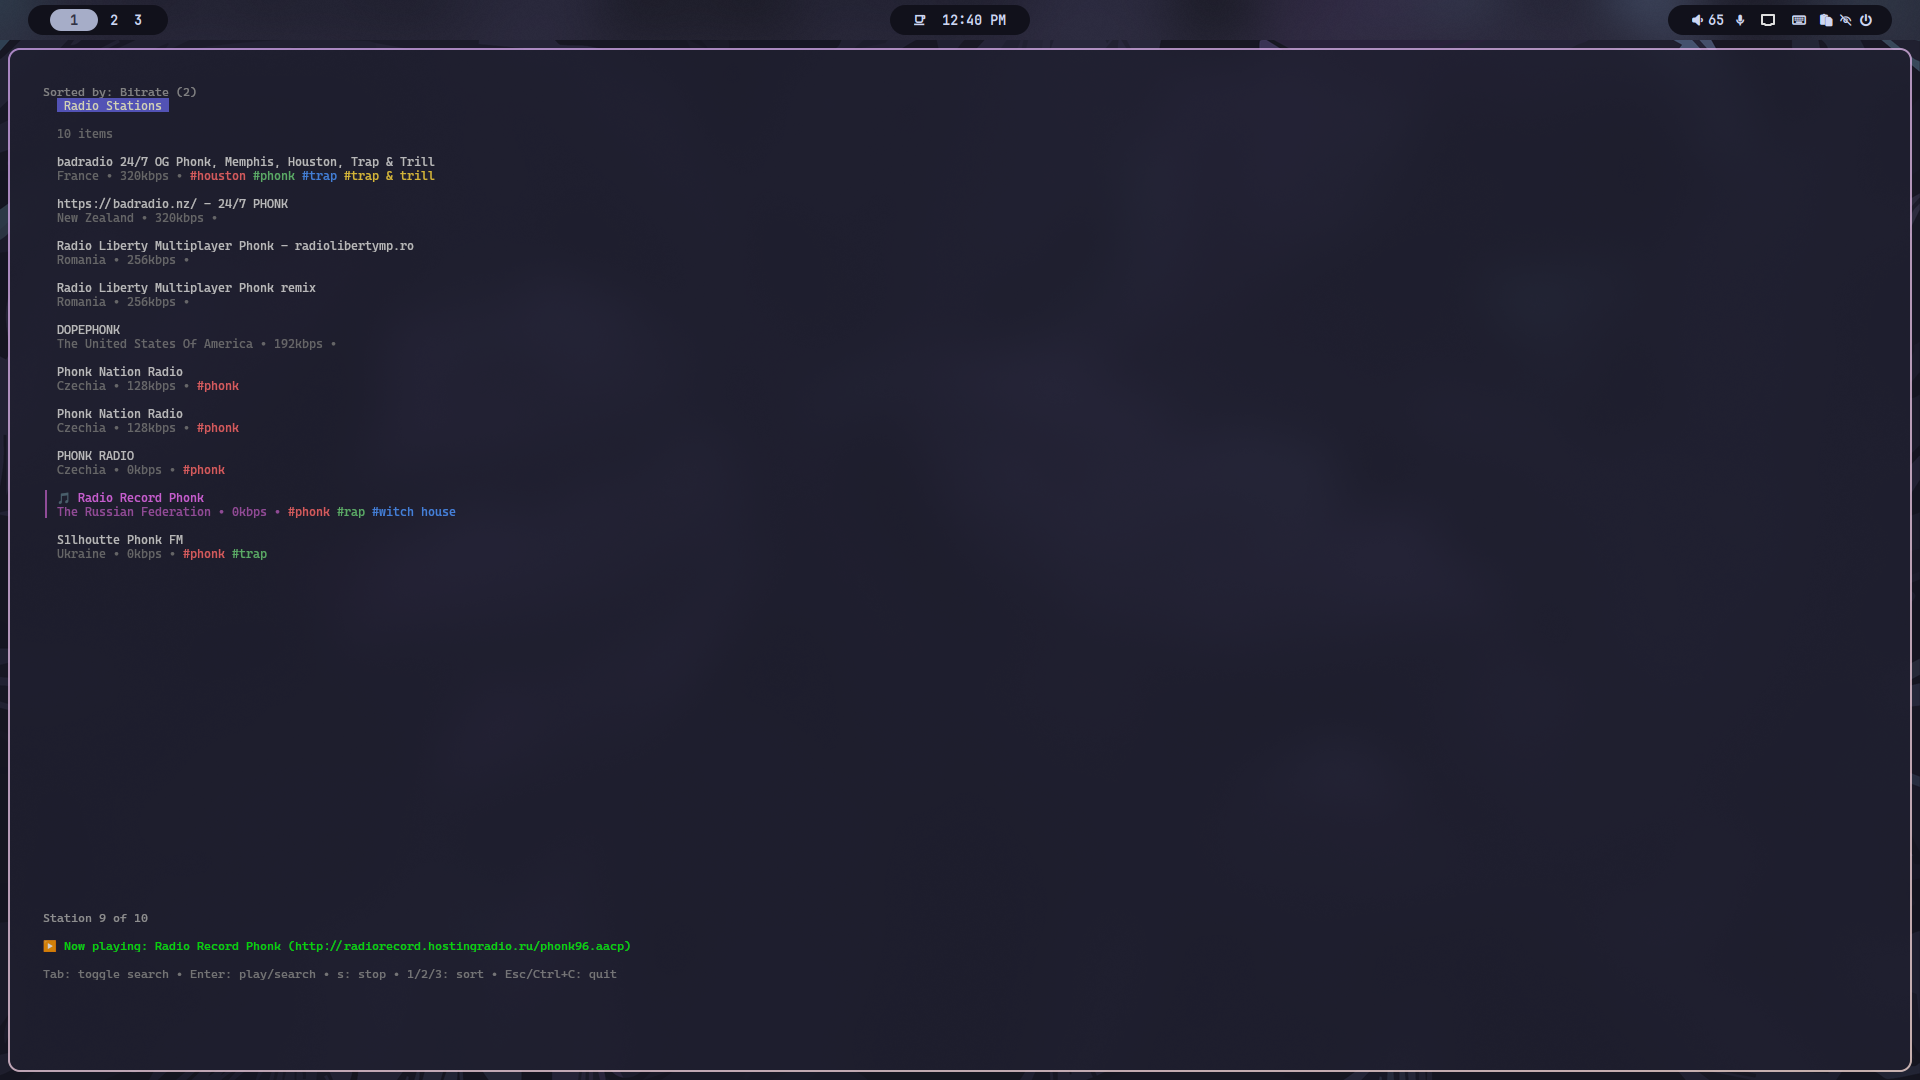
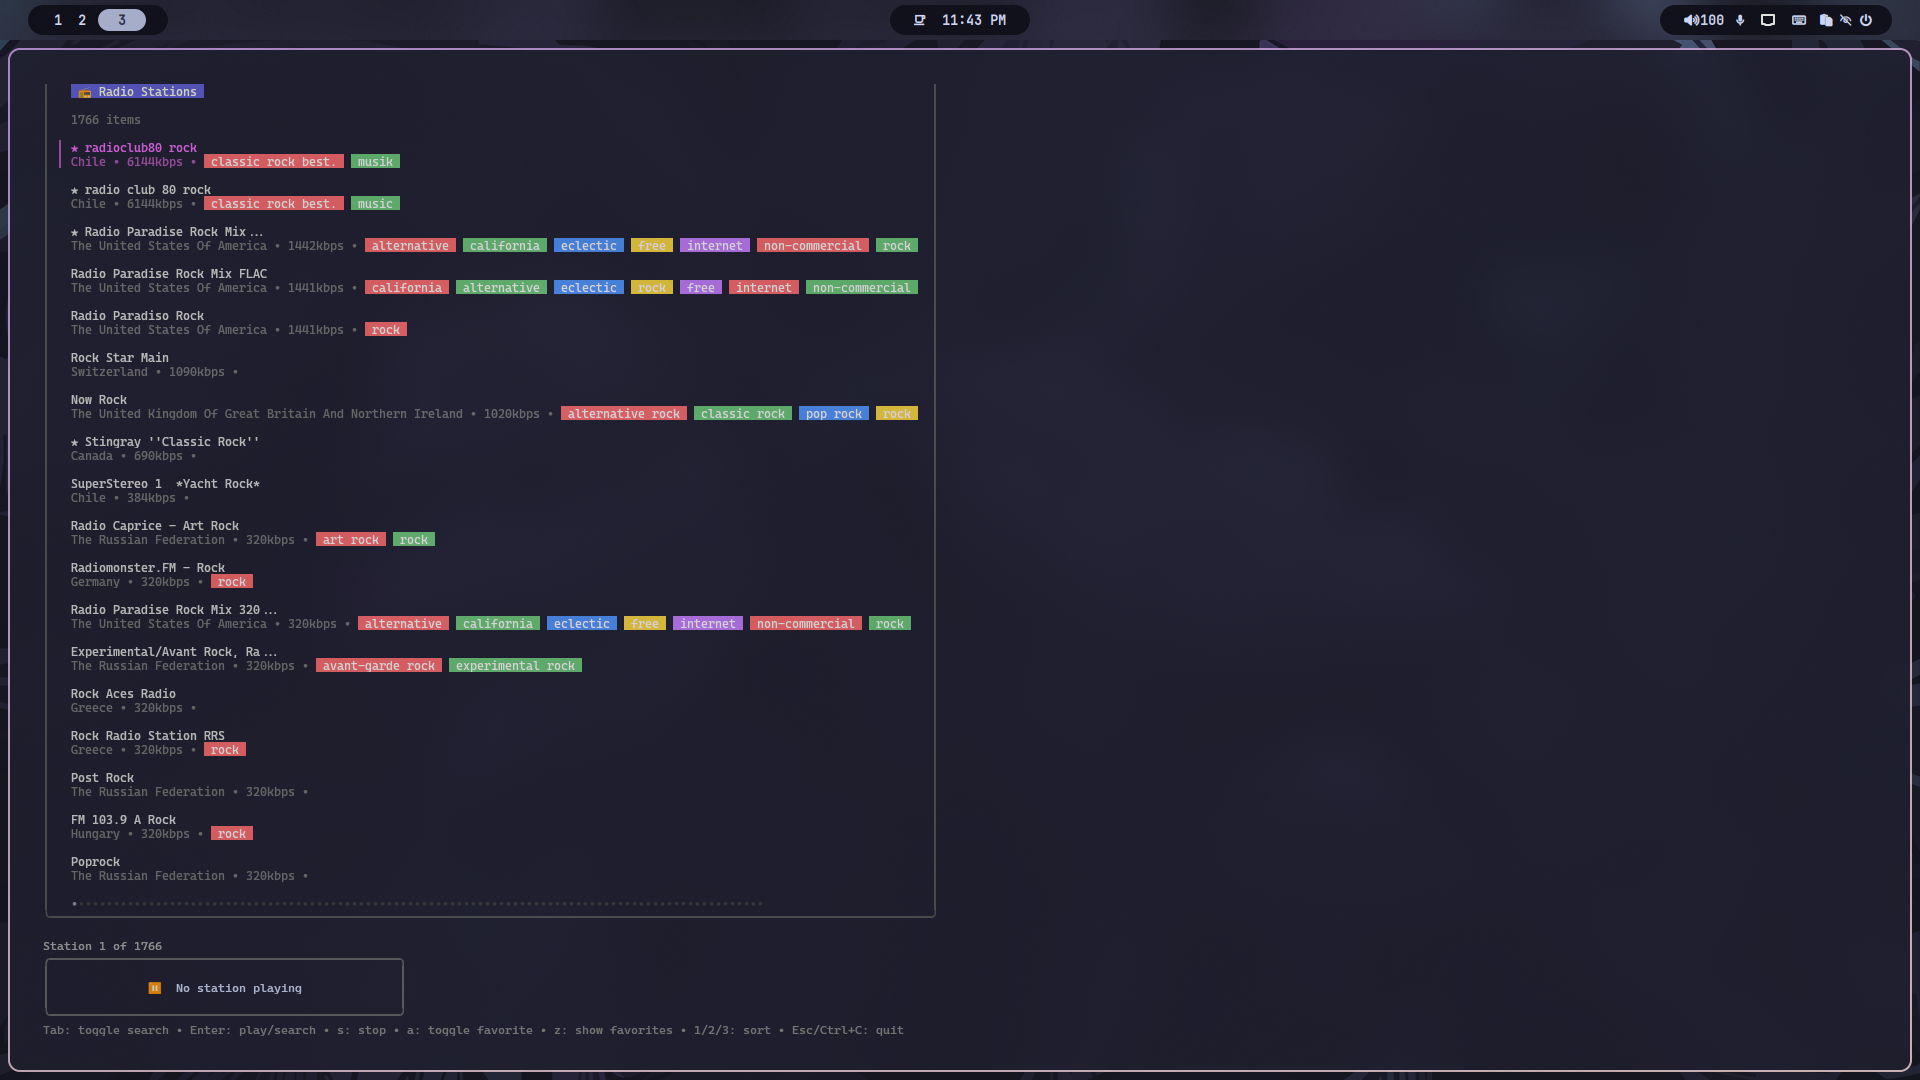
Update UI and favorites stations system

diff --git a/internal/ui/ui.go b/internal/ui/ui.go
@@ -90,41 +90,41 @@ type UIModel struct {
 
 var (
 	titleStyle = lipgloss.NewStyle().
-			Bold(true).
-			Foreground(lipgloss.Color("#FFA500")).
-			Padding(0, 2).
-			Background(lipgloss.Color("#1B1B1B"))
+		Bold(true).
+		Foreground(lipgloss.Color("#FFA500")).
+		Padding(0, 2).
+		Background(lipgloss.Color("#1B1B1B"))
 
 	loadingStyle = lipgloss.NewStyle().
-			Foreground(lipgloss.Color("#00FFFF")).
-			Bold(true)
+		Foreground(lipgloss.Color("#00FFFF")).
+		Bold(true)
 
 	errorStyle = lipgloss.NewStyle().
-			Foreground(lipgloss.Color("#FF3333")).
-			Bold(true)
+		Foreground(lipgloss.Color("#FF3333")).
+		Bold(true)
 
 	placeholder = lipgloss.NewStyle().
-			Foreground(lipgloss.Color("#666666")).
-			Italic(true)
+		Foreground(lipgloss.Color("#666666")).
+		Italic(true)
 
 	nowPlayingStyle = lipgloss.NewStyle().
-			Bold(true).
-			Foreground(lipgloss.Color("#00FF00")).
-			Padding(0, 1).
-			Background(lipgloss.Color("#0B3D0B"))
+		Bold(true).
+		Foreground(lipgloss.Color("#00FF00")).
+		Padding(0, 1).
+		Background(lipgloss.Color("#0B3D0B"))
 
 	helpStyle = lipgloss.NewStyle().
-			Foreground(lipgloss.Color("#888888")).
-			Italic(true)
+		Foreground(lipgloss.Color("#888888")).
+		Italic(true)
 
 	positionStyle = lipgloss.NewStyle().
-			Foreground(lipgloss.Color("#AAAAAA")).
-			Italic(true)
+		Foreground(lipgloss.Color("#AAAAAA")).
+		Italic(true)
 
 	sortLabelStyle = lipgloss.NewStyle().
-			Foreground(lipgloss.Color("#999999")).
-			Italic(true).
-			Padding(0, 1)
+		Foreground(lipgloss.Color("#999999")).
+		Italic(true).
+		Padding(0, 1)
 
 	tagColors = []lipgloss.Color{"#FF6B6B", "#6BCB77", "#4D96FF", "#FFD93D", "#C77DFF"}
 )
@@ -183,14 +183,23 @@ func searchStations(ctx context.Context, query string) tea.Cmd {
 
 func (m *UIModel) filterStations(query string) {
 	query = strings.ToLower(query)
+
+	var base []api.Station
+	if m.favoritesMode {
+		base = m.favoriteStations
+	} else {
+		base = m.allStations
+	}
+
 	var filtered []api.Station
-	for _, s := range m.allStations {
+	for _, s := range base {
 		if strings.Contains(strings.ToLower(s.Name), query) {
 			filtered = append(filtered, s)
 		}
 	}
 
 	m.sortStations(&filtered)
+
 	var items []list.Item
 	for _, s := range filtered {
 		playing := m.playing != nil && m.playing.URL == s.URL
@@ -200,8 +209,10 @@ func (m *UIModel) filterStations(query string) {
 			Favorite: m.storage.IsFavorite(s.URL),
 		})
 	}
+
 	m.filteredItems = items
 	m.list.SetItems(items)
+	m.list.Title = "📻 Radio Stations"
 }
 
 func (m *UIModel) sortStations(stations *[]api.Station) {
@@ -222,6 +233,8 @@ func (m *UIModel) sortStations(stations *[]api.Station) {
 }
 
 func (m *UIModel) showFavorites() {
+	m.favoritesMode = true
+
 	favStations := m.storage.ListFavorites()
 	m.favoriteStations = favStations
 	m.sortStations(&favStations)
@@ -237,6 +250,7 @@ func (m *UIModel) showFavorites() {
 	}
 	m.filteredItems = items
 	m.list.SetItems(items)
+	m.list.Title = "🌟 Favorites"
 }
 
 func (m *UIModel) Update(msg tea.Msg) (tea.Model, tea.Cmd) {
@@ -296,11 +310,12 @@ func (m *UIModel) Update(msg tea.Msg) (tea.Model, tea.Cmd) {
 			}
 
 		case "z":
-			m.favoritesMode = !m.favoritesMode
 			if m.favoritesMode {
-				m.showFavorites()
-			} else {
+				m.favoritesMode = false
 				m.filterStations(m.textinput.Value())
+			} else {
+				m.favoritesMode = true
+				m.showFavorites()
 			}
 
 		case "s":
@@ -442,35 +457,66 @@ func (m *UIModel) View() string {
 	} else {
 		header = "📻 Radio Stations"
 	}
-
 	contentParts = append(contentParts, titleStyle.Render(header))
 
-	if m.loading {
+	// Контент
+	switch {
+	case m.loading:
 		contentParts = append(contentParts, loadingStyle.Render(m.spinner.View()+" Loading stations..."))
-	} else if m.err != nil {
+
+	case m.err != nil:
 		contentParts = append(contentParts, errorStyle.Render(fmt.Sprintf("Error: %v", m.err)))
-	} else if len(m.filteredItems) == 0 {
-		contentParts = append(contentParts, placeholder.Render("No stations found. Enter search and press Enter."))
-	} else {
-		// Сортировка больше не отображается
-		contentParts = append(contentParts, lipgloss.NewStyle().PaddingTop(1).Render(m.list.View()))
-		contentParts = append(contentParts, positionStyle.Render(fmt.Sprintf("Station %d of %d", m.list.Index()+1, len(m.filteredItems))))
+
+	case len(m.filteredItems) == 0:
+
+		placeholderBox := lipgloss.NewStyle().
+			Border(lipgloss.RoundedBorder()).
+			BorderForeground(lipgloss.Color("#555555")).
+			Padding(1, 2).
+			MarginTop(1).
+			MarginBottom(1).
+			Width(60)
+
+		var msg string
+		switch {
+		case m.favoritesMode:
+			msg = "No favorite stations yet. Press 'a' to add some."
+		case m.textinput.Value() != "":
+			msg = "No stations match your search."
+		default:
+			msg = "No stations found. Enter a search query and press Enter."
+		}
+
+		contentParts = append(contentParts, placeholderBox.Render(placeholder.Render(msg)))
+
+	default:
+		// Список внутри рамки
+		listBoxStyle := lipgloss.NewStyle().
+			Border(lipgloss.RoundedBorder()).
+			BorderForeground(lipgloss.Color("#555555")).
+			Padding(0, 1).
+			MarginTop(1).
+			MarginBottom(1)
+
+		listInBox := listBoxStyle.Render(m.list.View())
+		contentParts = append(contentParts, listInBox)
+
+		// Позиция станции
+		contentParts = append(contentParts,
+			positionStyle.Render(fmt.Sprintf("Station %d of %d", m.list.Index()+1, len(m.filteredItems))),
+		)
 	}
 
 	mainContent := lipgloss.JoinVertical(lipgloss.Left, contentParts...)
 
-	contentRow := lipgloss.NewStyle().
-		Border(lipgloss.NormalBorder()).
-		BorderForeground(lipgloss.Color("#666666")).
-		Padding(1, 2).
-		Render(mainContent)
-
+	// Подвал с текущей станцией
 	footer := m.renderPlayer()
 
+	// Подсказка
 	help := helpStyle.Render("Tab: toggle search • Enter: play/search • s: stop • a: toggle favorite • z: show favorites • 1/2/3: sort • Esc/Ctrl+C: quit")
 
 	return lipgloss.JoinVertical(lipgloss.Left,
-		contentRow,
+		mainContent,
 		footer,
 		help,
 	)

diff --git a/internal/api/client_test.go b/internal/api/client_test.go
@@ -1,0 +1,88 @@
+package api
+
+import (
+	"context"
+	"fmt"
+	"net/http"
+	"net/http/httptest"
+	"testing"
+	"time"
+)
+
+func TestClient_SearchStations(t *testing.T) {
+	t.Run("success", func(t *testing.T) {
+		server := httptest.NewServer(http.HandlerFunc(func(w http.ResponseWriter, r *http.Request) {
+			if r.URL.Path != "/stations/search" {
+				t.Errorf("unexpected path: %s", r.URL.Path)
+			}
+			// Проверяем query param name
+			name := r.URL.Query().Get("name")
+			if name != "rock" {
+				t.Errorf("unexpected query param name: %s", name)
+			}
+
+			w.Header().Set("Content-Type", "application/json")
+			fmt.Fprint(w, `[{"name":"Rock FM","url":"http://rockfm.example","country":"US","codec":"mp3","bitrate":128}]`)
+		}))
+		defer server.Close()
+
+		client := NewClient(server.URL, 5*time.Second)
+		stations, err := client.SearchStations(context.Background(), "rock")
+		if err != nil {
+			t.Fatalf("unexpected error: %v", err)
+		}
+
+		if len(stations) != 1 {
+			t.Fatalf("expected 1 station, got %d", len(stations))
+		}
+
+		if stations[0].Name != "Rock FM" {
+			t.Errorf("unexpected station name: %s", stations[0].Name)
+		}
+	})
+
+	// Пустой query
+	t.Run("empty query", func(t *testing.T) {
+		client := NewClient("http://example.com", 5*time.Second)
+		_, err := client.SearchStations(context.Background(), "")
+		if err == nil {
+			t.Fatal("expected error for empty query, got nil")
+		}
+	})
+
+	t.Run("http status not ok", func(t *testing.T) {
+		server := httptest.NewServer(http.HandlerFunc(func(w http.ResponseWriter, r *http.Request) {
+			http.Error(w, "bad request", http.StatusBadRequest)
+		}))
+		defer server.Close()
+
+		client := NewClient(server.URL, 5*time.Second)
+		_, err := client.SearchStations(context.Background(), "rock")
+		if err == nil {
+			t.Fatal("expected error for bad status, got nil")
+		}
+	})
+
+	t.Run("invalid json", func(t *testing.T) {
+		server := httptest.NewServer(http.HandlerFunc(func(w http.ResponseWriter, r *http.Request) {
+			w.WriteHeader(http.StatusOK)
+			w.Header().Set("Content-Type", "application/json")
+			fmt.Fprint(w, `invalid json`)
+		}))
+		defer server.Close()
+
+		client := NewClient(server.URL, 5*time.Second)
+		_, err := client.SearchStations(context.Background(), "rock")
+		if err == nil {
+			t.Fatal("expected error for invalid json, got nil")
+		}
+	})
+
+	t.Run("request error", func(t *testing.T) {
+		client := NewClient("http://invalid-host", 1*time.Second)
+		_, err := client.SearchStations(context.Background(), "rock")
+		if err == nil {
+			t.Fatal("expected error for request failure, got nil")
+		}
+	})
+}

diff --git a/README.md b/README.md
@@ -33,16 +33,17 @@ make run
 
 ## 🧭 Controls
 
-| Keys        | Action |
-|-------------|--------:|
-| Tab         |      Toggle search bar | 
-| Enter       |      Search or play selected station |
-| s           |      Stop playback | 
-| 1           |      Sort by name |     
-| 2           |      Sort by bitrate | 
-| 3           |      Sort by country |
-| Esc, Ctrl+C |      Quit |     
-
+| Action                          |            Keys |
+|---------------------------------|----------------:|
+| Toggle search bar               |             Tab | 
+| Search or play selected station |           Enter |
+| Stop playback                   |               s | 
+| Sort by name                    |               1 |     
+| Sort by bitrate                 |               2 | 
+| Sort by country                 |               3 |
+| Favorites stations list         |               z |     
+| Add favorites stations          |               a |     
+| Quit                            |     Esc, Ctrl+C |  
 
 ## 📺 Demo
 
@@ -55,4 +56,4 @@ make run
 
 ## ✅ TODO list
 - [ ] Random station playback 
-- [ ] Favorite stations support
+- [X] Favorite stations support
